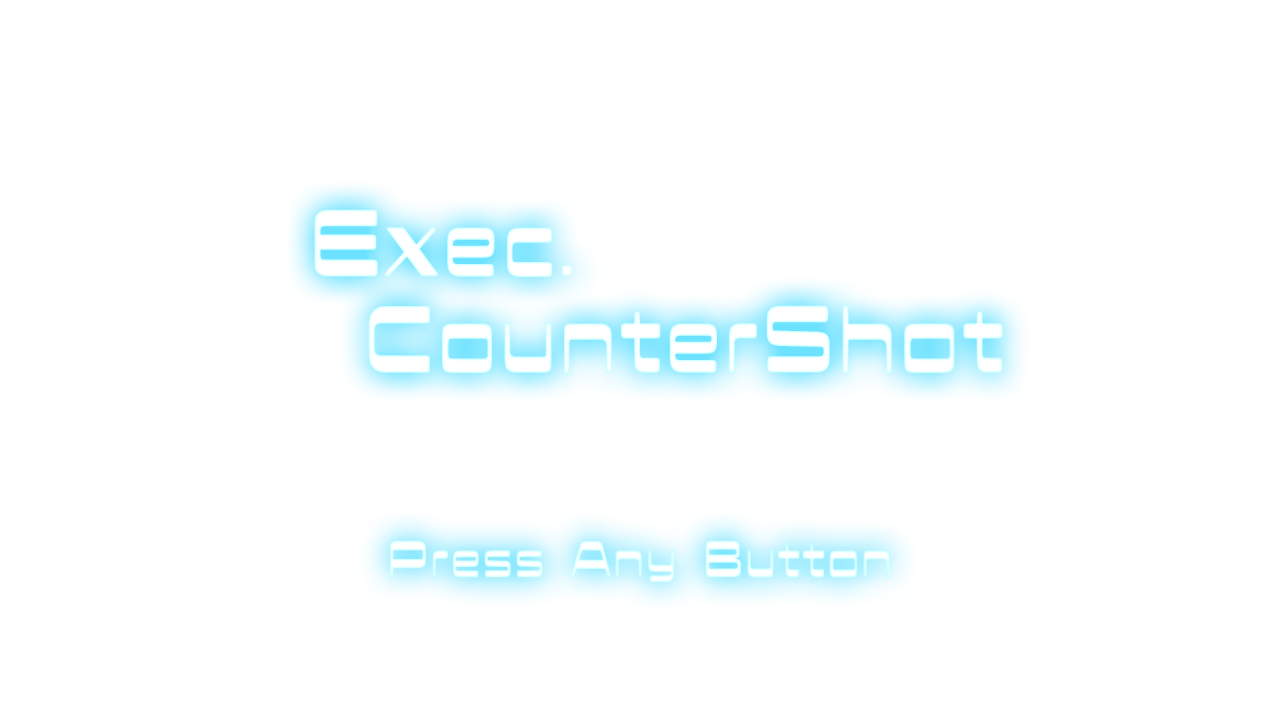
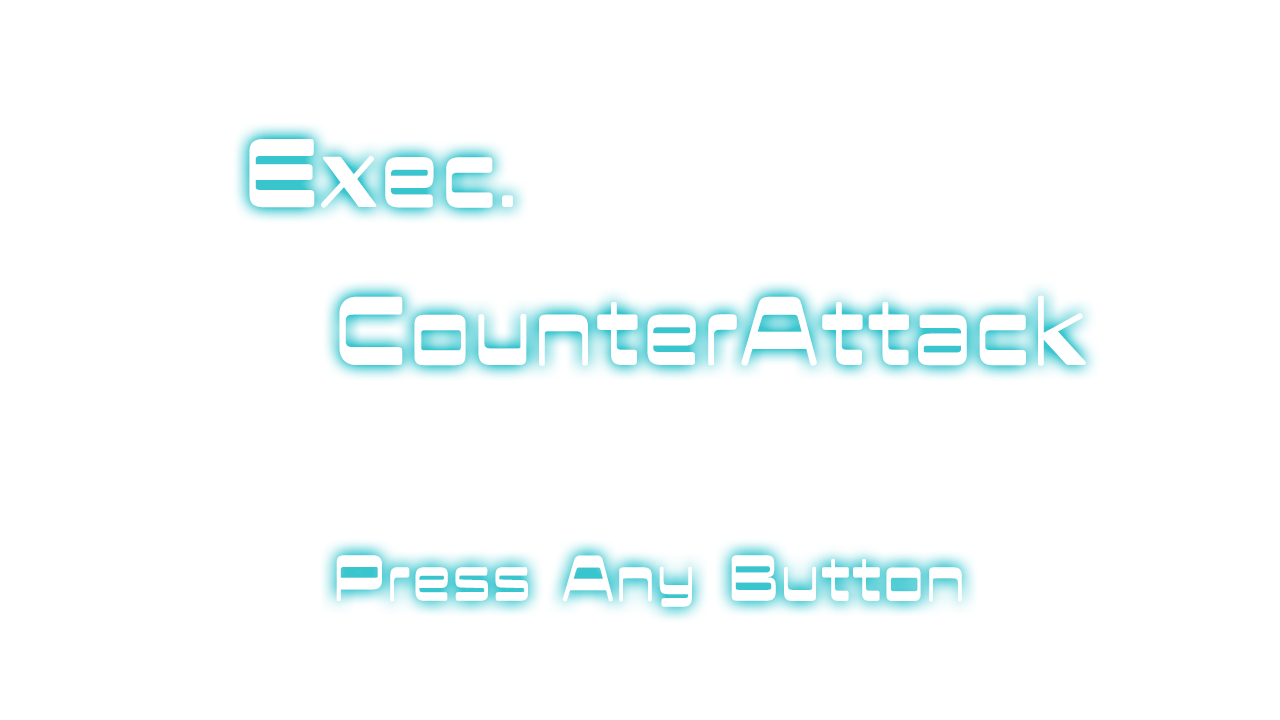
タイトルとクリア時の画像追加、デバッグ用機能のオンオフ切り替えの実装

Changed region(s): [[0.1875, 0.1528, 0.875, 0.55], [0.25, 0.7333, 0.7812, 0.8556]]

diff --git a/ResulScene.cpp b/ResulScene.cpp
@@ -6,27 +6,25 @@
 #include <GameManager.h>
 #include <SpDS.h>
 
-using namespace GameManager;
-
 void ResultScene::LoadResources()
 {
-	if (score.gradeMax > score.totDamage)
+	if (GameManager::score.gradeMax > GameManager::score.totDamage)
 	{
 		SpTextureManager::LoadTexture("Resources/result.png", "resultText");
 
-		if (score.totDamage > score.gradeS)
+		if (GameManager::score.totDamage > GameManager::score.gradeS)
 		{
 			SpTextureManager::LoadTexture("Resources/rankS.png", "rank");
 		}
-		else if (score.totDamage > score.gradeA)
+		else if (GameManager::score.totDamage > GameManager::score.gradeA)
 		{
 			SpTextureManager::LoadTexture("Resources/rankA.png", "rank");
 		}
-		else if (score.totDamage > score.gradeB)
+		else if (GameManager::score.totDamage > GameManager::score.gradeB)
 		{
 			SpTextureManager::LoadTexture("Resources/rankB.png", "rank");
 		}
-		else if (score.totDamage > score.gradeC)
+		else if (GameManager::score.totDamage > GameManager::score.gradeC)
 		{
 			SpTextureManager::LoadTexture("Resources/rankC.png", "rank");
 		}

diff --git a/MainTimer.cpp b/MainTimer.cpp
@@ -16,6 +16,11 @@ void MainTimer::Init()
 
 void MainTimer::Update()
 {
+	if (damageTimer > 0)
+	{
+		damageTimer--;
+	}
+
 	if (frameTimer >= 60)
 	{
 		timerSec--;
@@ -45,13 +50,21 @@ void MainTimer::Draw()
 			(int32_t)((GetSpWindow()->width - drawPosTR.x) - (float)numWidth * ((float)i + 0.5f)),
 			(int32_t)drawPosTR.y + 48,
 			1.f, 1.f, 0.f,
-			numbers.at(digis[i]));
+			numbers.at(digis[i]), Anchor::Center,
+			(damageTimer % 20 >= 10) ? Color::Red : Color::White);
 	}
+}
+
+void MainTimer::Damage()
+{
+	damageTimer = 60;
 }
 
 int32_t MainTimer::timerSec = 120;
 
 int32_t MainTimer::frameTimer = 60;
+
+int32_t MainTimer::damageTimer = 0;
 
 std::vector<TextureKey> MainTimer::numbers ={
 		"num_0",

diff --git a/TitleScene.cpp b/TitleScene.cpp
@@ -3,9 +3,11 @@
 #include <Input.h>
 #include <Transition.h>
 #include <GameScene.h>
+#include <SpDS.h>
 
 void TitleScene::LoadResources()
 {
+	SpTextureManager::LoadTexture("Resources/title.png", "titleText");
 }
 
 void TitleScene::Init()
@@ -31,4 +33,10 @@ void TitleScene::Draw3D()
 
 void TitleScene::DrawSprite()
 {
+	Float2 center = { (float)GetSpWindow()->width / 2, (float)GetSpWindow()->height / 2 };
+	Float2 multiplier = { center.x / 640, center.y / 360 };
+
+	SpDS::DrawBox(0, 0, (int32_t)center.x * 2, (int32_t)center.y * 2, Color::Black);
+	SpDS::DrawRotaGraph((int32_t)center.x, (int32_t)center.y, multiplier.x, multiplier.y, 0.f, "titleText");
+
 }

diff --git a/GameScene.cpp b/GameScene.cpp
@@ -6,6 +6,8 @@
 #include <SpEffekseer.h>
 #include <SoundManager.h>
 #include <MainTimer.h>
+#include <GameManager.h>
+#include <SpImGui.h>
 
 void GameScene::LoadResources()
 {
@@ -57,6 +59,17 @@ void GameScene::Update()
 	cam.Update();
 
 	MainTimer::Update();
+
+	if (GameManager::showDebug)
+	{
+		SpImGui::Command([&] {
+			if (ImGui::Begin("Game Scene"))
+			{
+				ImGui::Checkbox("Show Hit Box", &GameManager::showHitBoxes);
+			}
+			ImGui::End();
+		});
+	}
 }
 
 void GameScene::DrawBack()

diff --git a/SrcApplication/Scene/SceneManager.cpp b/SrcApplication/Scene/SceneManager.cpp
@@ -9,6 +9,7 @@
 #include <GlobalTimer.h>
 #include <TitleScene.h>
 #include <Transition.h>
+#include <GameManager.h>
 
 std::future<void> SceneManager::ftr;
 bool SceneManager::transitionQueued = false;
@@ -38,6 +39,11 @@ void SceneManager::Update()
 		if (Input::Key::Triggered(DIK_T))
 		{
 			LoadScene<TitleScene>();
+		}
+
+		if (Input::Key::Triggered(DIK_D))
+		{
+			GameManager::showDebug = !GameManager::showDebug;
 		}
 
 		Transition();

diff --git a/MainTimer.h b/MainTimer.h
@@ -9,10 +9,13 @@ public:
 	static void Update();
 	static void Draw();
 
+	static void Damage();
+
 	static int32_t timerSec;
 
 private:
 	static int32_t frameTimer;
 	static const int32_t frameTime = 60;
 	static std::vector<TextureKey> numbers;
+	static int32_t damageTimer;
 };

diff --git a/GameManager.h b/GameManager.h
@@ -1,6 +1,9 @@
 #pragma once
 #include <Score.h>
 
-namespace GameManager {
+class GameManager {
+public:
 	static Score score;
-}
+	static bool showDebug;
+	static bool showHitBoxes;
+};

diff --git a/GameManager.cpp b/GameManager.cpp
@@ -1,2 +1,7 @@
 #include "stdafx.h"
 #include "GameManager.h"
+
+Score GameManager::score;
+
+bool GameManager::showDebug = false;
+bool GameManager::showHitBoxes = false;
